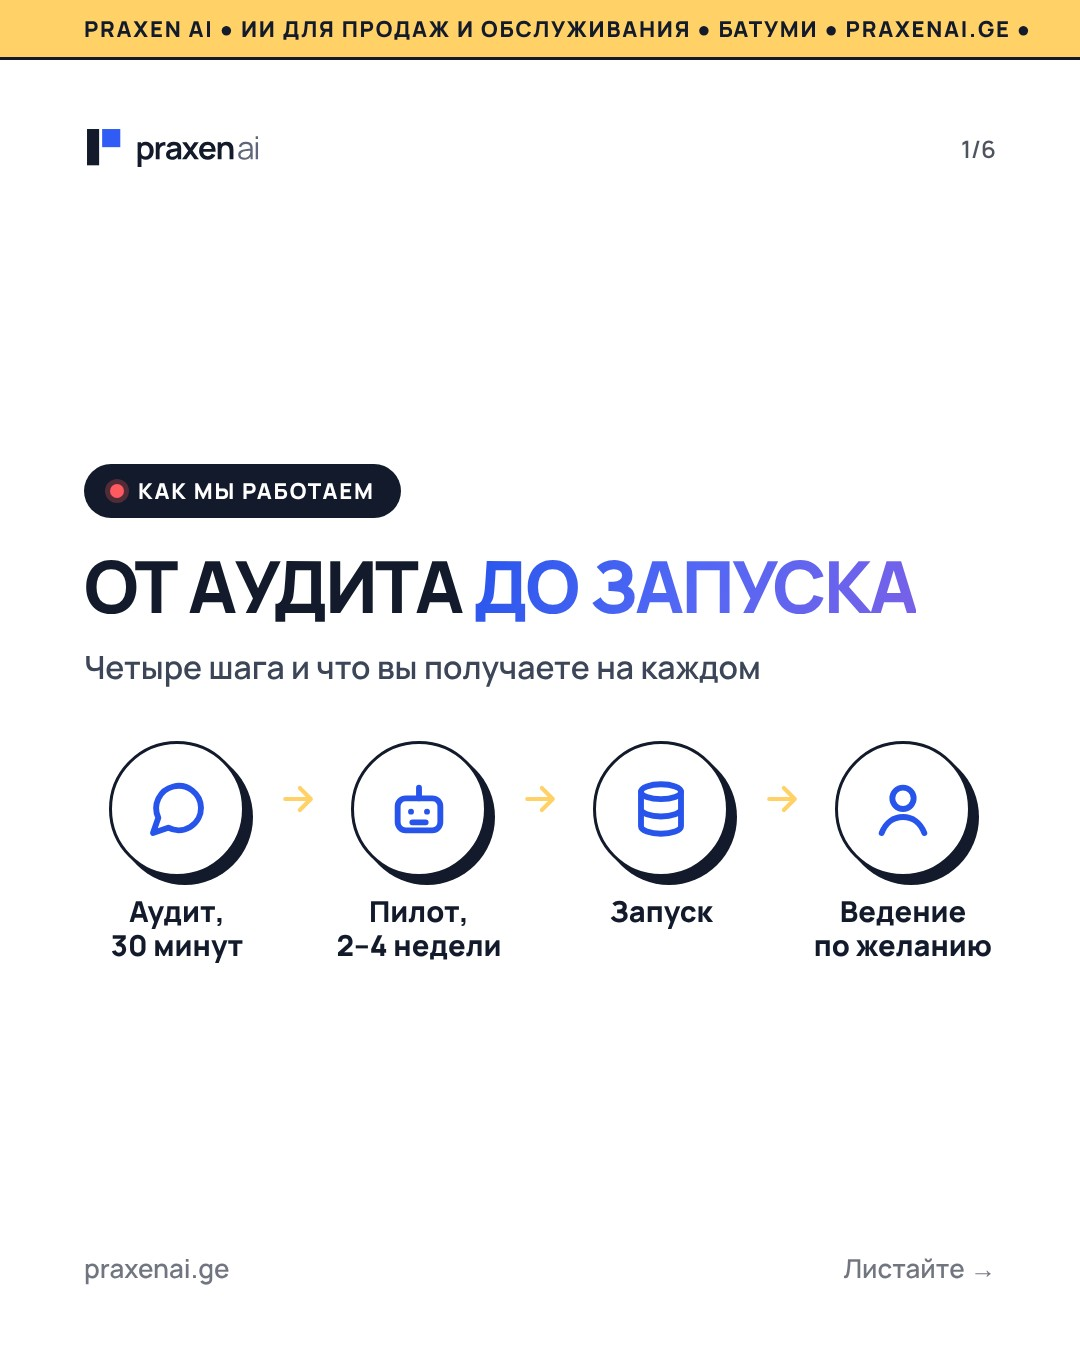
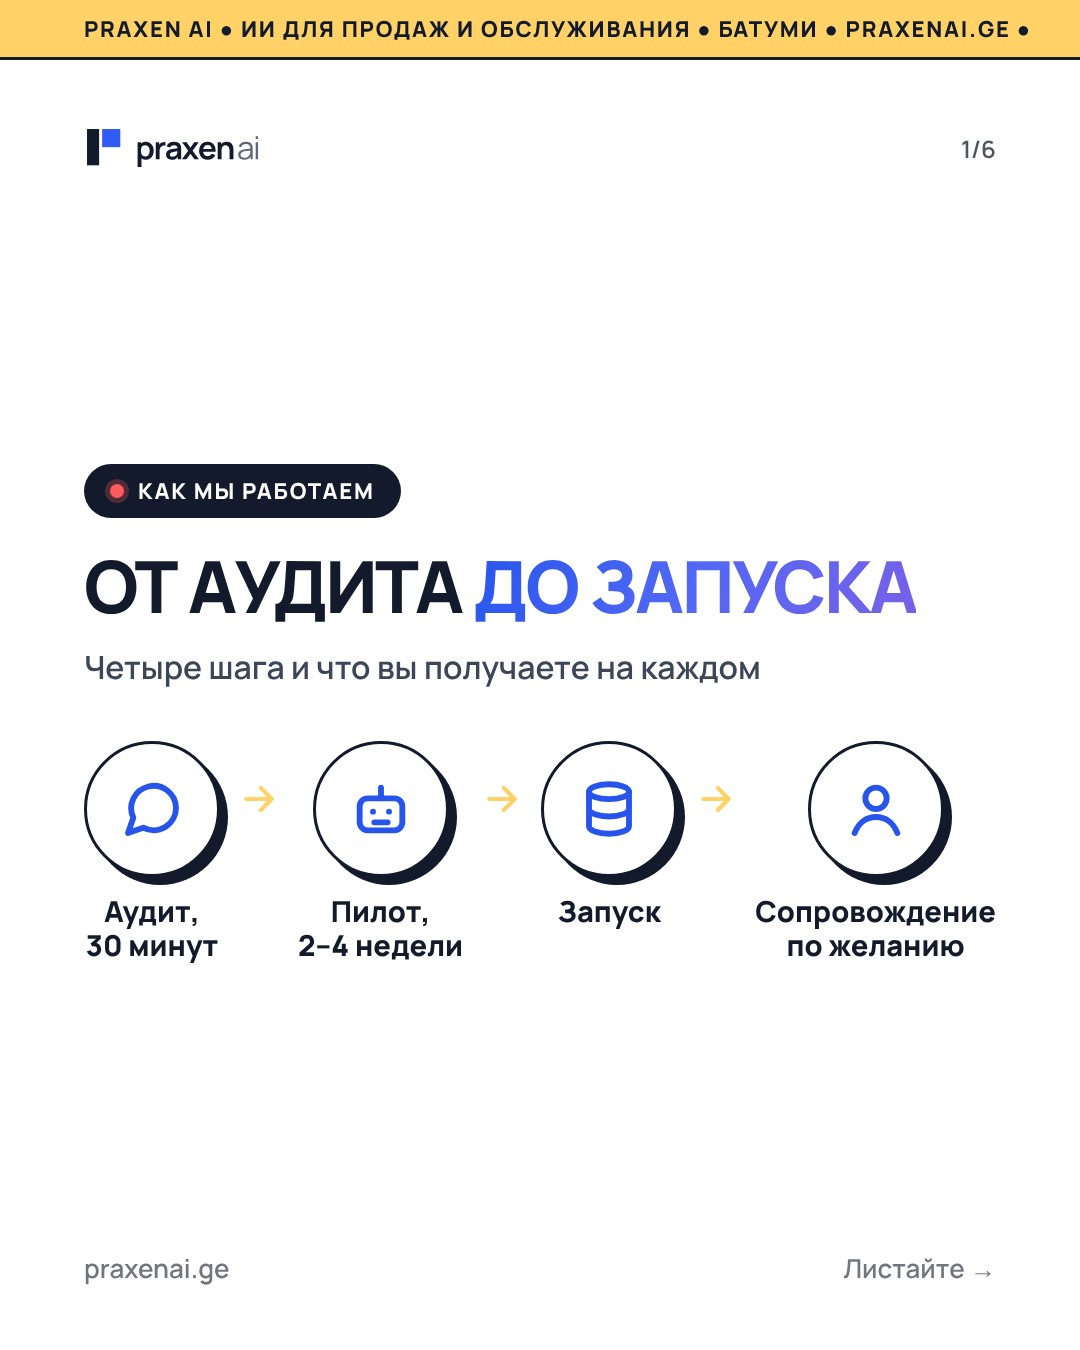
Social: new pricing (owner decision 23.11) in planned posts — f13 monthly cost reworked (two paths) and moved to 27.11 16:00, tg15 to 27.11 18:00, f17 support 290/550 ₾, Instagram highlight «Цены» updated; re-rendered
Claude-Session: https://claude.ai/code/session_016cAohA96poWtWPnijEGNmN

Changed region(s): [[0.0611, 0.5289, 0.9167, 0.7156]]

diff --git a/content/social/out/feed-2026-11/f13-monthly-cost/captions.md b/content/social/out/feed-2026-11/f13-monthly-cost/captions.md
@@ -1,37 +1,37 @@
-# f13-monthly-cost · 2026-11-24 · explain
+# f13-monthly-cost · 2026-11-27 · explain
 
 ## ru
 
-Сколько стоит ИИ-ассистент — вопрос, который задают первым. Разложим честно.
+Во что обходится ИИ-ассистент каждый месяц, зависит от пути: готовый чат-бот или проект под ваш процесс.
 
-Разово: запуск. Внедрение под один процесс — от 3 200 ₾.
-Каждый месяц: токены ИИ, платные сообщения WhatsApp и сервер. Их вы оплачиваете поставщикам напрямую, на своих аккаунтах, без нашей наценки.
-По желанию: ведение от 550 ₾ в месяц — обновляем базу знаний, проверяем ответы, исправляем ошибки.
+Готовый чат-бот Start: запуск 990 ₾, дальше 249 ₾ в месяц. Один канал: бот отвечает на частые вопросы, собирает заявку и передаёт её сотруднику. Работает на стандартном шаблоне, с лимитом использования. Чат-бот с CRM: запуск 2 490 ₾, дальше 449 ₾ в месяц.
 
-Решение работает на ваших аккаунтах и без нас. Сколько выйдет в месяц именно у вас, зависит от числа переписок, поэтому считаем на аудите до начала работ. Аудит бесплатный: https://praxenai.ge/ru?utm_source=facebook&utm_medium=social&utm_campaign=organic_2026-11&utm_content=f13-monthly-cost#contact
+Проект под ваш процесс. Пилот автоматизации стоит от 3 200 ₾, разработка решения — от 6 700 ₾, в обоих случаях платите один раз. Дальше каждый месяц — токены ИИ, сервер и платные сообщения WhatsApp. Их вы оплачиваете поставщикам напрямую, со своего аккаунта, по их счетам и без нашей наценки. Решение остаётся на ваших аккаунтах и работает без нас. Сопровождение по желанию: базовое за 290 ₾ в месяц или активное за 550 ₾.
 
-#ИИдлябизнеса #ценыИИ #ИИассистент
-
-## facebook · 2026-11-24 11:00 (Тбилиси)
-
-Сколько стоит ИИ-ассистент — вопрос, который задают первым. Разложим честно.
-
-Разово: запуск. Внедрение под один процесс — от 3 200 ₾.
-Каждый месяц: токены ИИ, платные сообщения WhatsApp и сервер. Их вы оплачиваете поставщикам напрямую, на своих аккаунтах, без нашей наценки.
-По желанию: ведение от 550 ₾ в месяц — обновляем базу знаний, проверяем ответы, исправляем ошибки.
-
-Решение работает на ваших аккаунтах и без нас. Сколько выйдет в месяц именно у вас, зависит от числа переписок, поэтому считаем на аудите до начала работ. Аудит бесплатный: https://praxenai.ge/ru?utm_source=facebook&utm_medium=social&utm_campaign=organic_2026-11&utm_content=f13-monthly-cost#contact
+Какой путь подходит вам и сколько выйдет в месяц на ваших объёмах, считаем на бесплатном аудите до начала работ: https://praxenai.ge/ru?utm_source=facebook&utm_medium=social&utm_campaign=organic_2026-11&utm_content=f13-monthly-cost#contact
 
 #ИИдлябизнеса #ценыИИ #ИИассистент
 
-## instagram · 2026-11-24 11:00 (Тбилиси)
+## facebook · 2026-11-27 16:00 (Тбилиси)
 
-Сколько стоит ИИ-ассистент — вопрос, который задают первым. Разложим честно.
+Во что обходится ИИ-ассистент каждый месяц, зависит от пути: готовый чат-бот или проект под ваш процесс.
 
-Разово: запуск. Внедрение под один процесс — от 3 200 ₾.
-Каждый месяц: токены ИИ, платные сообщения WhatsApp и сервер. Их вы оплачиваете поставщикам напрямую, на своих аккаунтах, без нашей наценки.
-По желанию: ведение от 550 ₾ в месяц — обновляем базу знаний, проверяем ответы, исправляем ошибки.
+Готовый чат-бот Start: запуск 990 ₾, дальше 249 ₾ в месяц. Один канал: бот отвечает на частые вопросы, собирает заявку и передаёт её сотруднику. Работает на стандартном шаблоне, с лимитом использования. Чат-бот с CRM: запуск 2 490 ₾, дальше 449 ₾ в месяц.
 
-Решение работает на ваших аккаунтах и без нас. Сколько выйдет в месяц именно у вас, зависит от числа переписок, поэтому считаем на аудите до начала работ. Аудит бесплатный: ссылка в шапке профиля
+Проект под ваш процесс. Пилот автоматизации стоит от 3 200 ₾, разработка решения — от 6 700 ₾, в обоих случаях платите один раз. Дальше каждый месяц — токены ИИ, сервер и платные сообщения WhatsApp. Их вы оплачиваете поставщикам напрямую, со своего аккаунта, по их счетам и без нашей наценки. Решение остаётся на ваших аккаунтах и работает без нас. Сопровождение по желанию: базовое за 290 ₾ в месяц или активное за 550 ₾.
+
+Какой путь подходит вам и сколько выйдет в месяц на ваших объёмах, считаем на бесплатном аудите до начала работ: https://praxenai.ge/ru?utm_source=facebook&utm_medium=social&utm_campaign=organic_2026-11&utm_content=f13-monthly-cost#contact
+
+#ИИдлябизнеса #ценыИИ #ИИассистент
+
+## instagram · 2026-11-27 16:00 (Тбилиси)
+
+Во что обходится ИИ-ассистент каждый месяц, зависит от пути: готовый чат-бот или проект под ваш процесс.
+
+Готовый чат-бот Start: запуск 990 ₾, дальше 249 ₾ в месяц. Один канал: бот отвечает на частые вопросы, собирает заявку и передаёт её сотруднику. Работает на стандартном шаблоне, с лимитом использования. Чат-бот с CRM: запуск 2 490 ₾, дальше 449 ₾ в месяц.
+
+Проект под ваш процесс. Пилот автоматизации стоит от 3 200 ₾, разработка решения — от 6 700 ₾, в обоих случаях платите один раз. Дальше каждый месяц — токены ИИ, сервер и платные сообщения WhatsApp. Их вы оплачиваете поставщикам напрямую, со своего аккаунта, по их счетам и без нашей наценки. Решение остаётся на ваших аккаунтах и работает без нас. Сопровождение по желанию: базовое за 290 ₾ в месяц или активное за 550 ₾.
+
+Какой путь подходит вам и сколько выйдет в месяц на ваших объёмах, считаем на бесплатном аудите до начала работ: ссылка в шапке профиля
 
 #ИИдлябизнеса #ценыИИ #ИИассистент

diff --git a/content/social/out/telegram-2026-11/tg15-monthly-cost/captions.md b/content/social/out/telegram-2026-11/tg15-monthly-cost/captions.md
@@ -1,16 +1,16 @@
-# tg15-monthly-cost · 2026-11-24 · telegram only
+# tg15-monthly-cost · 2026-11-27 · telegram only
 
-## telegram · 2026-11-24 18:00 (Тбилиси)
+## telegram · 2026-11-27 18:00 (Тбилиси)
 
-Сколько стоит ИИ-ассистент в месяц — разложим честно.
+Ежемесячный счёт за ИИ-ассистента зависит от варианта. Их два.
 
-Разово — запуск. Внедрение под один процесс у нас от 3 200 ₾.
+Готовый чат-бот Start: 990 ₾ за запуск и 249 ₾ в месяц. Один канал, ответы на частые вопросы, сбор заявки и передача сотруднику. Стандартный шаблон и лимит использования. Версия с CRM стоит 2 490 ₾ за запуск и 449 ₾ в месяц.
 
-Каждый месяц — три вещи, и все оплачиваются напрямую поставщикам, на ваших аккаунтах, без нашей наценки:
-— токены ИИ (плата модели за объём текста в ответах);
+Проект под ваш процесс: пилот автоматизации от 3 200 ₾ или разработка решения от 6 700 ₾, оплата разовая. Дальше каждый месяц три статьи расходов, и все оплачиваются напрямую поставщикам, с ваших аккаунтов, по их счетам, без нашей наценки:
+— токены ИИ (плата провайдеру ИИ за объём обработанного текста);
 — платные сообщения WhatsApp, если используете официальный API;
 — сервер.
 
-По желанию — ведение от 550 ₾ в месяц: обновляем базу знаний, проверяем ответы, исправляем ошибки. Без него решение тоже работает.
+Сопровождение проекта по желанию. Базовое стоит 290 ₾ в месяц: следим за работой и исправляем сбои в согласованном объёме. Активное стоит 550 ₾ в месяц: сверх этого разбираем качество ответов, обновляем базу знаний и тратим до 3 часов на улучшения. Без сопровождения решение тоже работает.
 
-Ежемесячная сумма зависит от числа переписок, поэтому называть её «в среднем» нечестно. Считаем на ваших объёмах на бесплатном аудите, до начала работ: https://praxenai.ge/ru?utm_source=telegram&utm_medium=social&utm_campaign=organic_2026-11&utm_content=tg15-monthly-cost#contact
+Во втором варианте сумма за сервисы зависит от числа переписок, поэтому среднюю цифру не называем. Считаем её на ваших объёмах на бесплатном аудите, до начала работ: https://praxenai.ge/ru?utm_source=telegram&utm_medium=social&utm_campaign=organic_2026-11&utm_content=tg15-monthly-cost#contact

diff --git a/content/social/out/feed-2026-12/f17-how-we-work/captions.md b/content/social/out/feed-2026-12/f17-how-we-work/captions.md
@@ -10,7 +10,7 @@
 
 3. Запуск. Переводим процесс в ежедневную работу, обучаем команду и передаём инструкции. Следующий процесс подключаем, если пилот достиг метрики.
 
-4. Ведение, по желанию: от 550 ₾ ($200) в месяц. Обновляем базу знаний, проверяем ответы ассистента и исправляем ошибки.
+4. Сопровождение, по желанию. Базовое за 290 ₾ в месяц: следим, чтобы всё работало, и исправляем сбои в согласованном объёме. Активное за 550 ₾ в месяц: сверх этого разбираем качество ответов ассистента, обновляем базу знаний и тратим до 3 часов на улучшения.
 
 Порядок работы подробнее: https://praxenai.ge/ru/about?utm_source=facebook&utm_medium=social&utm_campaign=organic_2026-12&utm_content=f17-how-we-work
 
@@ -28,7 +28,7 @@
 
 3. Запуск. Переводим процесс в ежедневную работу, обучаем команду и передаём инструкции. Следующий процесс подключаем, если пилот достиг метрики.
 
-4. Ведение, по желанию: от 550 ₾ ($200) в месяц. Обновляем базу знаний, проверяем ответы ассистента и исправляем ошибки.
+4. Сопровождение, по желанию. Базовое за 290 ₾ в месяц: следим, чтобы всё работало, и исправляем сбои в согласованном объёме. Активное за 550 ₾ в месяц: сверх этого разбираем качество ответов ассистента, обновляем базу знаний и тратим до 3 часов на улучшения.
 
 Порядок работы подробнее: https://praxenai.ge/ru/about?utm_source=facebook&utm_medium=social&utm_campaign=organic_2026-12&utm_content=f17-how-we-work
 
@@ -46,7 +46,7 @@
 
 3. Запуск. Переводим процесс в ежедневную работу, обучаем команду и передаём инструкции. Следующий процесс подключаем, если пилот достиг метрики.
 
-4. Ведение, по желанию: от 550 ₾ ($200) в месяц. Обновляем базу знаний, проверяем ответы ассистента и исправляем ошибки.
+4. Сопровождение, по желанию. Базовое за 290 ₾ в месяц: следим, чтобы всё работало, и исправляем сбои в согласованном объёме. Активное за 550 ₾ в месяц: сверх этого разбираем качество ответов ассистента, обновляем базу знаний и тратим до 3 часов на улучшения.
 
 Порядок работы подробнее: ссылка в шапке профиля
 
